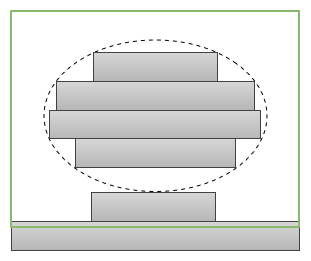
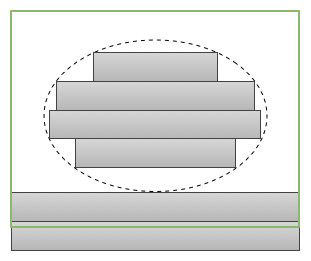
[css-exclusions] Specify overflow behavior for shape-inside

Changed region(s): [[0.6656, 0.7356, 0.9839, 0.8582], [0.0289, 0.7356, 0.3183, 0.8582]]

diff --git a/css3-exclusions/Overview.html b/css3-exclusions/Overview.html
@@ -10,10 +10,10 @@
   <link href="http://purl.org/dc/terms/" rel=schema.DC>
   <meta content="CSS Exclusions and Shapes Module Level 3" name=DC.title>
   <meta content=text name=DC.type>
-  <meta content=2012-09-13 name=DC.issued>
+  <meta content=2012-10-01 name=DC.issued>
   <meta content="http://dev.w3.org/csswg/css3-exclusions/" name=DC.creator>
   <meta content=W3C name=DC.publisher>
-  <meta content="http://www.w3.org/TR/2012/ED-css3-exclusions-20120913/"
+  <meta content="http://www.w3.org/TR/2012/ED-css3-exclusions-20121001/"
    name=DC.identifier>
   <link href="http://www.w3.org/Consortium/Legal/ipr-notice#Copyright"
    rel=DC.rights>
@@ -50,15 +50,14 @@
 
    <h1 id=css-exclusions-module>CSS Exclusions and Shapes Module Level 3</h1>
 
-   <h2 class="no-num no-toc" id=longstatus-date>Editor's Draft 13 September
-    2012</h2>
+   <h2 class="no-num no-toc" id=longstatus-date>Editor's Draft 1 October 2012</h2>
 
    <dl>
     <dt>This version:
 
     <dd><a
      href="http://dev.w3.org/csswg/css3-exclusions/">http://dev.w3.org/csswg/css3-exclusions/</a></dd>
-    <!--<dd><a href="http://www.w3.org/TR/2012/ED-css3-exclusions-20120913/">http://www.w3.org/TR/2012/WD-css3-exclusions-20120913/</a></dd>-->
+    <!--<dd><a href="http://www.w3.org/TR/2012/ED-css3-exclusions-20121001/">http://www.w3.org/TR/2012/WD-css3-exclusions-20121001/</a></dd>-->
 
     <dt>Latest version:
 
@@ -1953,14 +1952,6 @@ div {
       syntax in the shape-inside, shape-outside properties
     </div>
    </div>
-
-   <div class=issue-marker data-bug_id=16460 data-bug_status=NEW> <a
-    href="https://www.w3.org/Bugs/Public/show_bug.cgi?id=16460">Issue-16460</a>
-
-    <div class=issue-details>
-     <p class=short-desc>Specify overflow behavior for shape-inside
-    </div>
-   </div>
   </div>
 
   <p>The values of this property have the following meanings:
@@ -2016,6 +2007,24 @@ div {
    alt="Content flowing with and without a shape-inside"
    src="images/shape-inside-content.png">
    <p class=caption>Effect of shape-inside on inline content.
+  </div>
+
+  <p>Overflow content can overlap the bottom edge of a shape-inside, and
+   overflow content can be displayed below the content area defined by
+   shape-inside. When content overflows in the block direction, the last line
+   in the content area determines its width(s) by finding the minimum shape
+   width(s) in the remaining area between the line's top edge and the shape's
+   bottom edge. This can result in the line intersecting the shape's bottom
+   edge, or a zero-width line if (for instance) the shape's bottom edge is a
+   continuous curve. Further overflow is laid out as if the shape-inside was
+   set to ‘<code class=property>auto</code>’.
+
+  <div class=figure> <img alt="Overflow interacting with rounded rect"
+   src="images/rounded-rect-overflow.png"
+   style="display:inline-block;vertical-align:top"> <img
+   alt="Overflow interacting with ellipse" src="images/ellipse-overflow.png"
+   style="display:inline-block;vertical-align:top">
+   <p class=caption>Overflow interacting with the bottom edge of shapes.
   </div>
   <!-- End section "The shape-inside property" -->
 

diff --git a/css3-exclusions/Exclusions.src.html b/css3-exclusions/Exclusions.src.html
@@ -1487,13 +1487,6 @@ div {
           <p class="short-desc">Should we revisit the decision to not allow SVG path syntax in the shape-inside, shape-outside properties</p>
       </div>  
     </div>
-
-    <div class="issue-marker" data-bug_id="16460" data-bug_status="NEW">
-      <a href="https://www.w3.org/Bugs/Public/show_bug.cgi?id=16460">Issue-16460</a>
-      <div class="issue-details">
-          <p class="short-desc">Specify overflow behavior for shape-inside</p>
-      </div>  
-    </div>
 </div>
 
     <p>The values of this property have the following meanings:</p>
@@ -1536,6 +1529,30 @@ div {
     <div class='figure'>
         <img alt="Content flowing with and without a shape-inside" src="images/shape-inside-content.png"/>
         <p class="caption">Effect of shape-inside on inline content.</p>
+    </div>
+
+    <p>Overflow content can overlap 
+        the bottom edge of a shape-inside, 
+        and overflow content can be displayed 
+        below the content area defined by shape-inside. 
+        When content overflows in the block direction, 
+        the last line in the content area determines its width(s) 
+        by finding the minimum shape width(s) 
+        in the remaining area 
+        between the line's top edge 
+        and the shape's bottom edge. 
+        This can result 
+        in the line intersecting the shape's bottom edge, 
+        or a zero-width line 
+        if (for instance) the shape's bottom edge 
+        is a continuous curve. 
+        Further overflow is laid out 
+        as if the shape-inside was set to 'auto'.</p>
+
+    <div class='figure'>
+            <img alt="Overflow interacting with rounded rect" style="display:inline-block;vertical-align:top" src="images/rounded-rect-overflow.png"/>
+            <img alt="Overflow interacting with ellipse" style="display:inline-block;vertical-align:top" src="images/ellipse-overflow.png"/>
+        <p class="caption">Overflow interacting with the bottom edge of shapes.</p>
     </div>
         
     <!-- End section "The shape-inside property" -->
